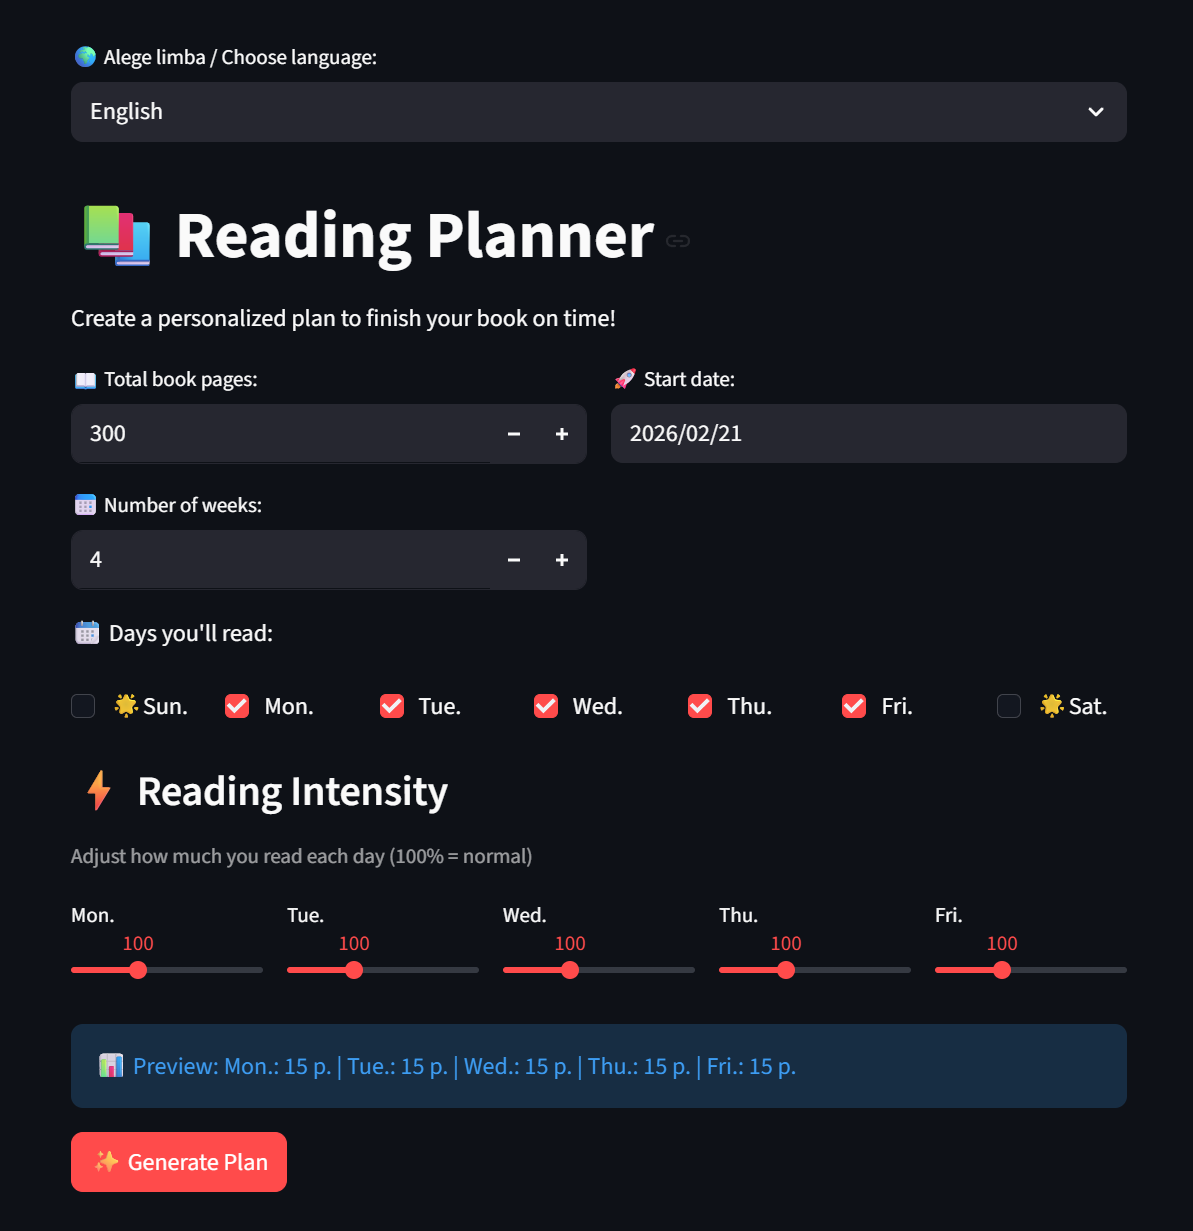
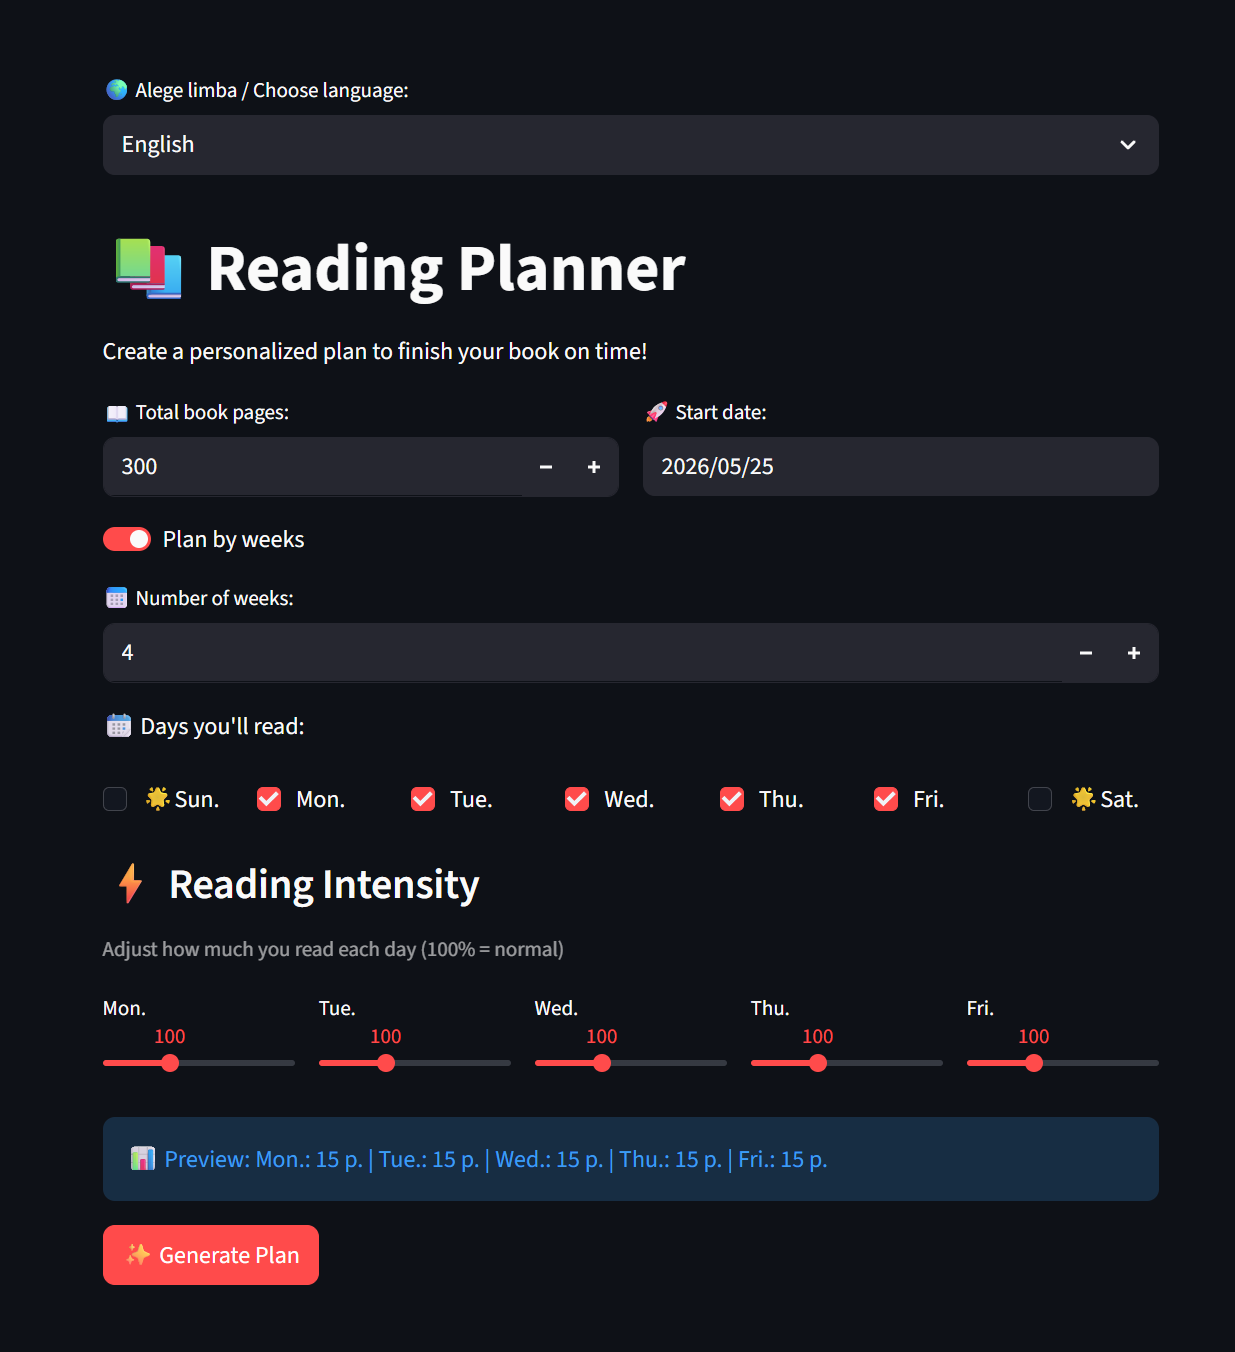
update readme and screenshot

diff --git a/README.md b/README.md
@@ -8,7 +8,8 @@ A simple Streamlit app that generates a personalized reading plan to help you fi
 
 ## ✨ Features
 
-- Set total book pages, number of weeks, and start date
+- Set total book pages and start date
+- Choose what kind of planning do you want: by weeks or by days
 - Choose which days of the week you want to read
 - Adjust reading intensity per day (50% → chill day, 200% → power session)
 - Generates a day-by-day plan with exact page targets
@@ -26,7 +27,7 @@ git clone https://github.com/your-username/reading-planner.git
 cd reading-planner
 
 # Install dependencies
-pip install streamlit
+pip install -r requirements.txt
 
 # Run the app
 streamlit run app.py